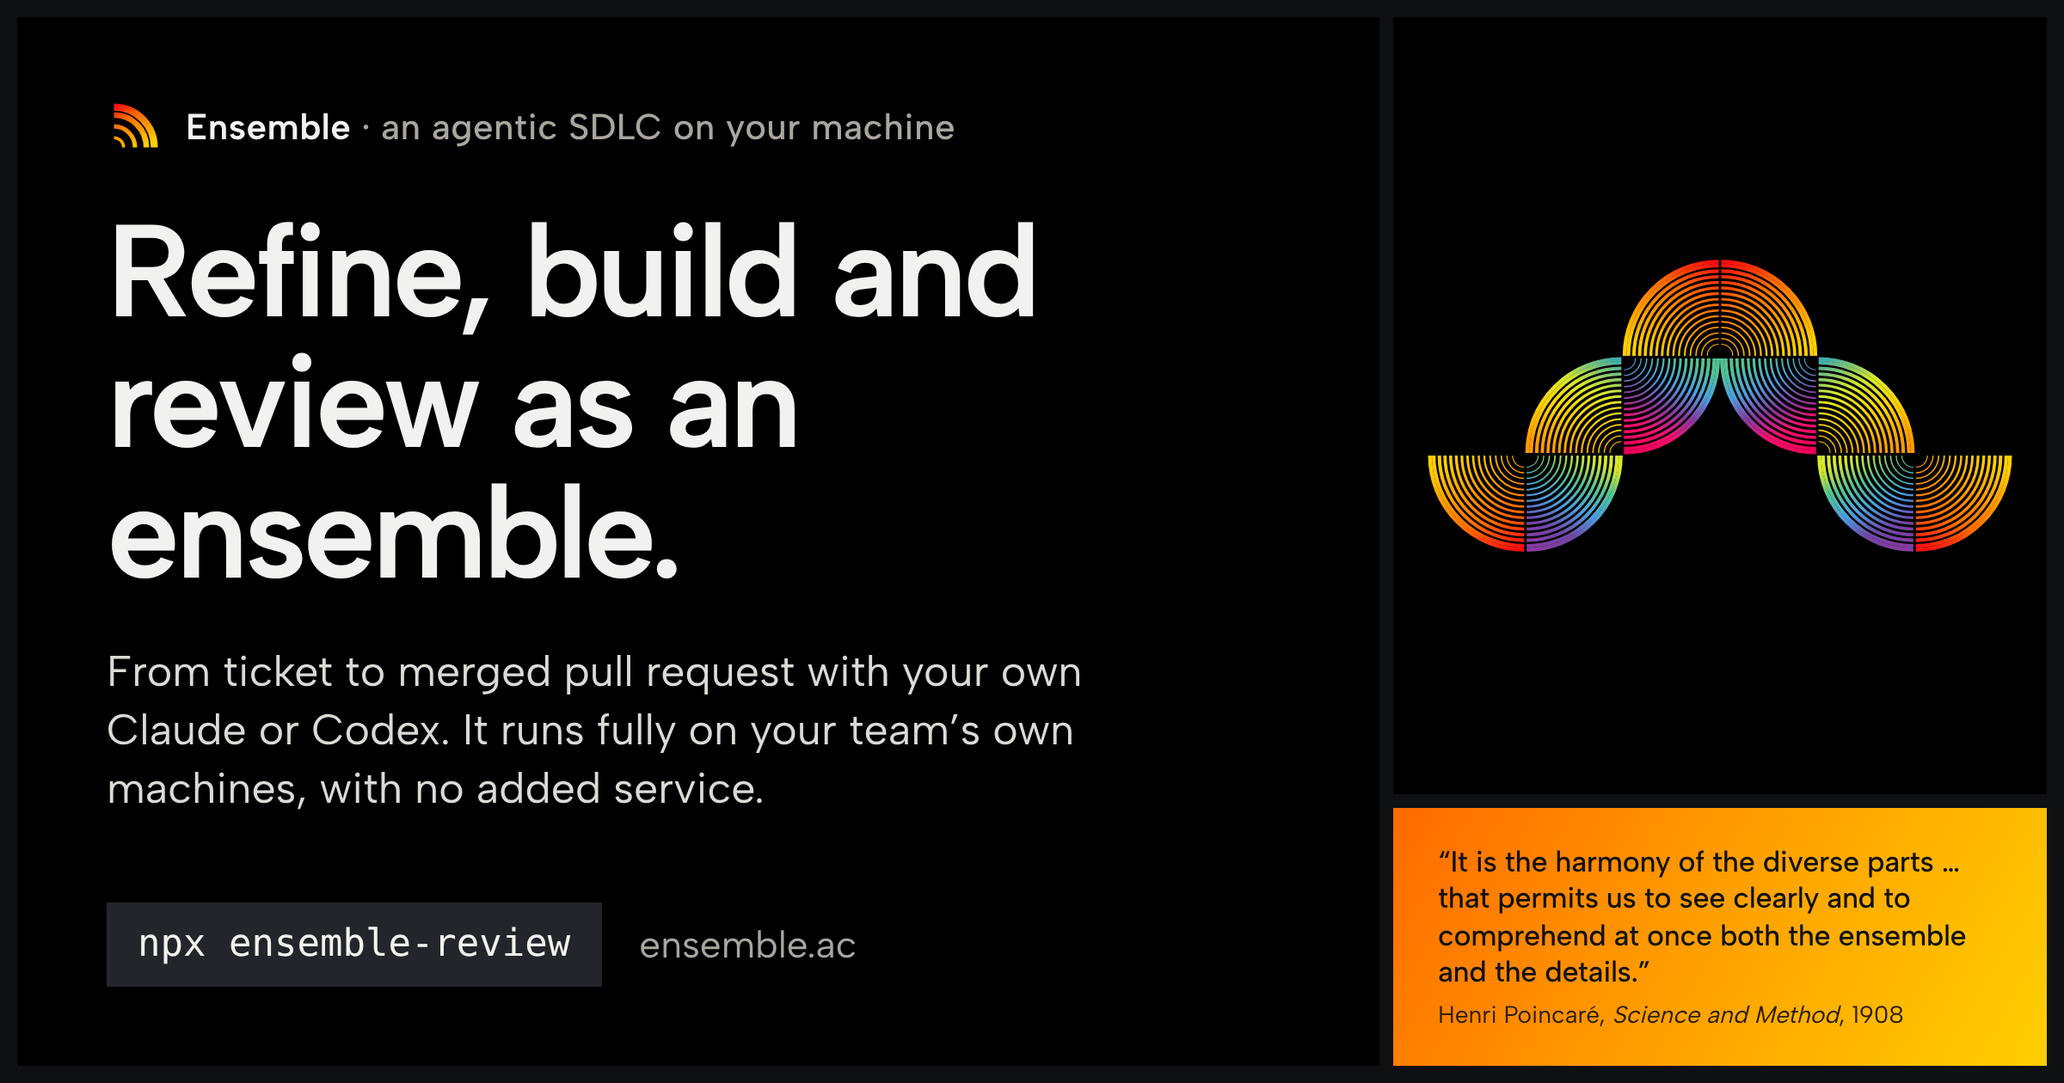
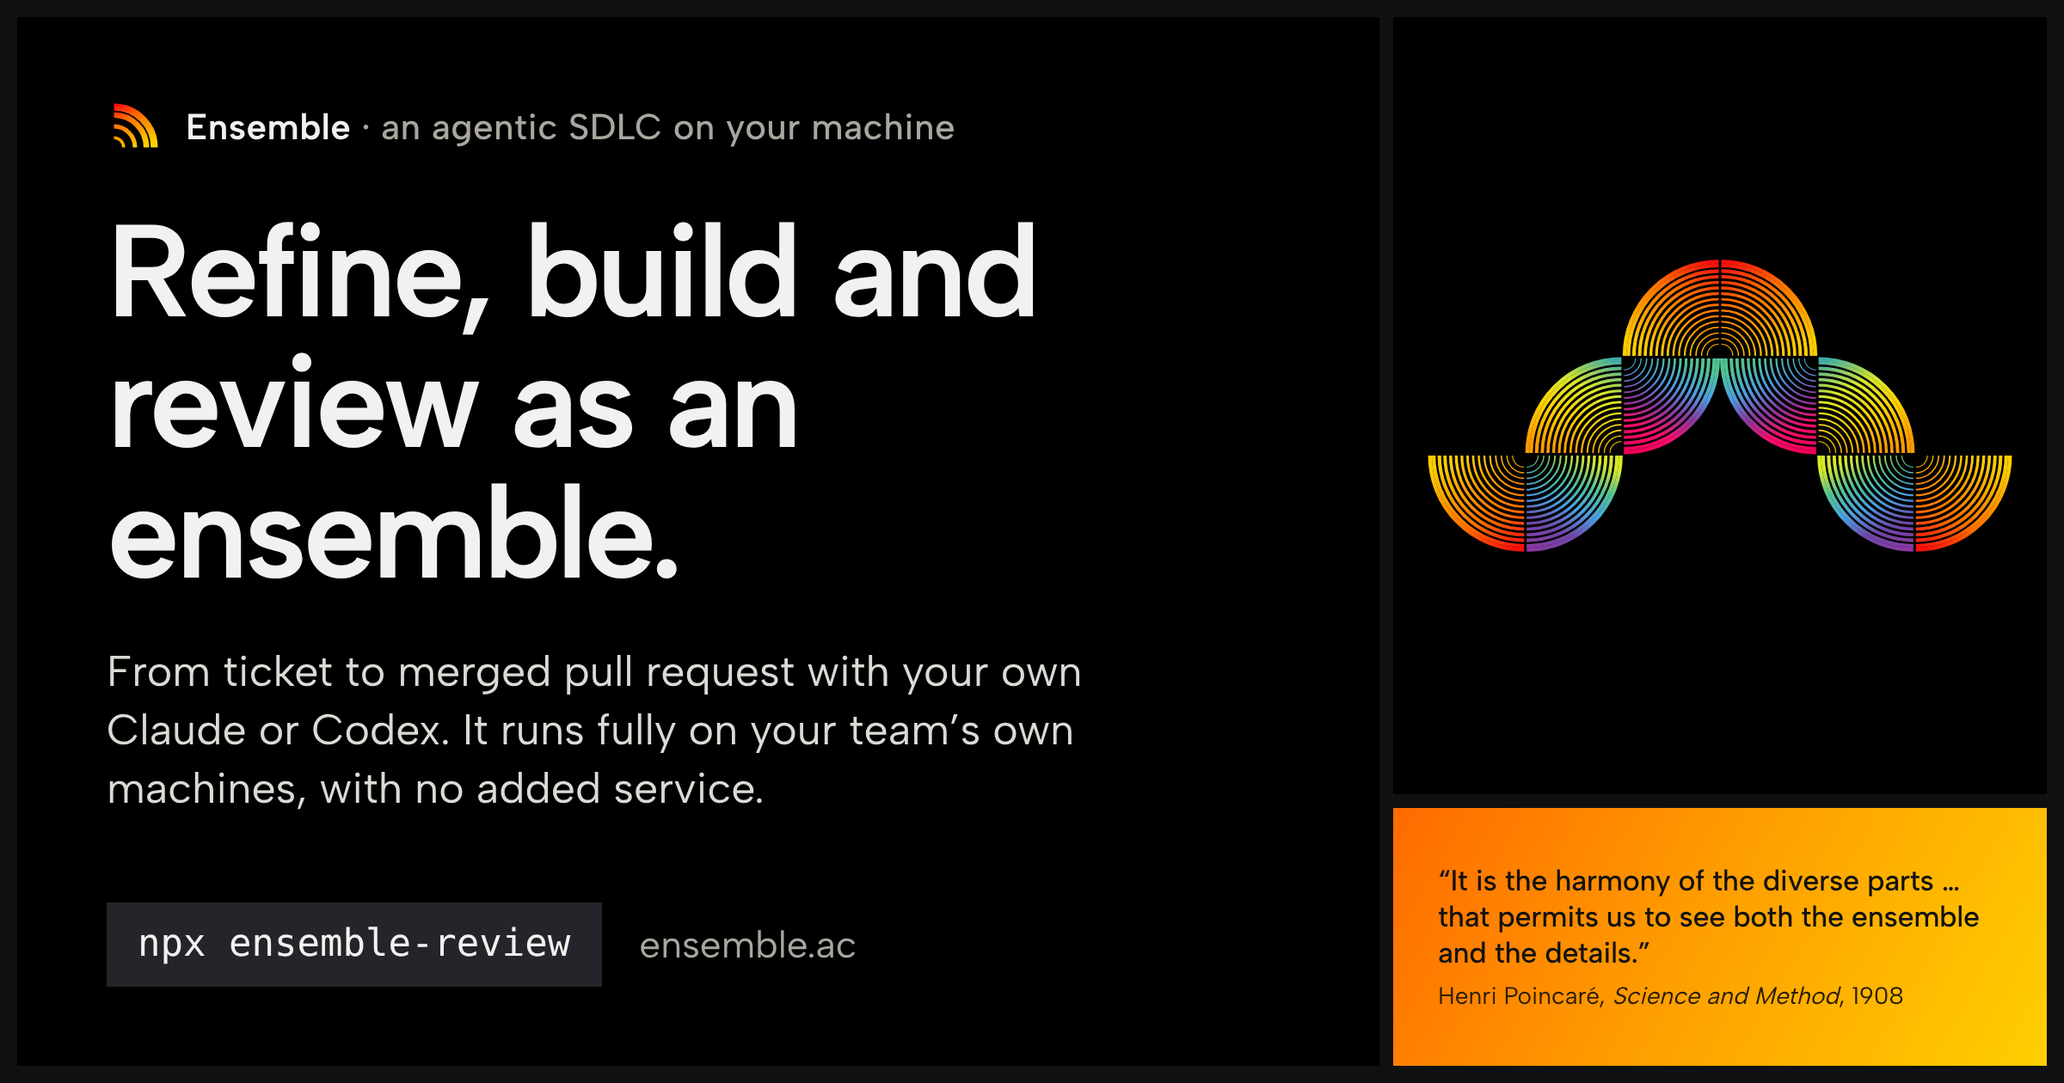
Landing: the closing picture is the hero's 8 in reverse (#29)
* Landing: the closing picture is the hero's 8 in reverse

The Quartet after "Dependency updates, handled" filled the whole width and
read too big on most screens. In its place the hero's figure of 8 is
pinned again, played backwards: it scrolls in whole, then comes apart as
the close covers it (Scene `reverse`: the same gather span with
animation-direction reverse, and the JS fallback's apart = S / gather).
It fits the screen's height, like the hero's, and is dimmed the same way.

The Quartet and quartetQuarters had no other use and are removed.

Claude-Session: https://claude.ai/code/session_01Y7zDQPGDUWXXDdJKrAgGTD

* Landing: a shorter Poincaré line in the hero and the share card

Claude-Session: https://claude.ai/code/session_01Y7zDQPGDUWXXDdJKrAgGTD

---------

Changed region(s): [[0.6875, 0.7738, 0.9688, 0.9595]]

diff --git a/apps/landing/src/components/arcs/pieces.tsx b/apps/landing/src/components/arcs/pieces.tsx
@@ -1,19 +1,16 @@
 import { Arcs } from './Arcs';
-import { eightQuarters, quartetQuarters, SITE_EIGHT } from './geometry';
+import { eightQuarters, SITE_EIGHT } from './geometry';
 import type { Corner, Quarter, RunName } from './geometry';
 
 // ---------------------------------------------------------------------------
 // The compositions. Every picture on the site is one of these, drawn from the same
 // banded quarter (geometry.ts): no photographs, no product screenshots.
 //
-//   Quartet    four equal quarters facing one centre, "four sensible people
-//              conversing", in the close at the foot of the page. Its quarters
-//              start well beyond the opposite corners, cross through the middle as
-//              it scrolls into view, and land overlapping.
-//   Chain      quarters linked end to end, each a different voice, whose bands run
-//              on from link to link (the hero's big picture). Its links start
-//              scattered across the screen and cross through each other into place as
-//              the reader scrolls down, landing as a tall figure of 8 (SITE_EIGHT).
+//   Chain      the home page's big picture, twice: quarters, each a different voice,
+//              whose links start scattered across the screen and cross through each
+//              other into place as the reader scrolls down, landing as a tall figure
+//              of 8 (SITE_EIGHT); and after "Dependency updates" the same 8 in reverse,
+//              arriving whole and coming apart (Scene `reverse`).
 //   Orchestra  the seating plan from above: rows of chairs in sections around
 //              the conductor
 //   Combo      a jazz band: four players of different weight, facing in, their
@@ -24,7 +21,7 @@ interface PieceProps {
   className?: string;
   label?: string;
   lead?: boolean;
-  /** 'slice' fills a wide stage and crops (the Quartet full width); default 'meet'. */
+  /** 'slice' fills the box and crops; default 'meet'. */
   fit?: 'meet' | 'slice';
 }
 
@@ -39,34 +36,9 @@ export function Chain({ className, label, lead }: PieceProps): JSX.Element {
       quarters={CHAIN.quarters}
       // the links cross through each other on the way in: overlaps mix like light
       blend
-      className={className}
+      className={['eight', className].filter(Boolean).join(' ')}
       label={label}
       fit="meet"
-    />
-  );
-}
-
-// R 62: the quarters overlap in the middle and land on crossing lines. They cross
-// into place like the hero's Chain, starting at TWICE the mirror distance, beyond
-// the opposite corner (the tile clips them until they fly in). The margin leaves
-// room for the corner dots.
-const QUARTET = quartetQuarters(4, 62, true, 2);
-// The STAGE quartet (Home.tsx, pinned full width): it starts just past the mirror of
-// its place (reach 1.15), so the pinned screen is never empty, and its players are
-// small, since a unit there is many pixels.
-const QUARTET_STAGE = quartetQuarters(4, 62, true, 1.15, 1.1);
-
-export function Quartet({ className, label, lead, fit = 'meet', stage }: PieceProps & { stage?: boolean }): JSX.Element {
-  const q = stage ? QUARTET_STAGE : QUARTET;
-  return (
-    <Arcs
-      lead={lead}
-      viewBox={q.viewBox}
-      className={className}
-      label={label}
-      fit={fit}
-      blend
-      quarters={q.quarters}
     />
   );
 }

diff --git a/apps/landing/src/pages/Home.tsx b/apps/landing/src/pages/Home.tsx
@@ -5,7 +5,7 @@ import { Hero } from '../components/board/Hero';
 import { BotsSection, EnsembleSection, HowItWorks } from '../components/board/HomeSections';
 import { Close } from '../components/board/Close';
 import { Scene, type SceneTiming } from '../components/arcs/Scene';
-import { Chain, Quartet } from '../components/arcs/pieces';
+import { Chain } from '../components/arcs/pieces';
 import './home.css';
 
 // ---------------------------------------------------------------------------
@@ -25,10 +25,12 @@ import './home.css';
 //            chain comes together (0 → 130) and brightens (0 → 70); "Review as an
 //            ensemble" enters at 100 + runway − 100 = 110, about 85% through, and the
 //            chain dims behind it (110 → 170).
-//   QUARTET  after "Dependency updates, handled": it plays alone (0 → 100, brightening
-//            0 → 60); the close enters at runway − 100 = 85 and the quartet dims (85 → 145).
+//   8 OUT    after "Dependency updates, handled": the hero's 8 in REVERSE (Scene
+//            `reverse`). It scrolls in whole, then comes apart (0 → 120) as it
+//            brightens (0 → 60); the close enters at runway − 100 = 85 and it dims
+//            (85 → 145).
 const CHAIN_SCENE: SceneTiming = { gather: 130, fadeIn: 70, runway: 110, outStart: 110, outEnd: 170 };
-const QUARTET_SCENE: SceneTiming = { gather: 100, fadeIn: 60, runway: 185, outStart: 85, outEnd: 145 };
+const EIGHT_OUT_SCENE: SceneTiming = { gather: 120, fadeIn: 60, runway: 185, outStart: 85, outEnd: 145 };
 
 export default function Home(): JSX.Element {
   useSeo(seoFor('/'));
@@ -45,9 +47,10 @@ export default function Home(): JSX.Element {
       <HowItWorks />
       <BotsSection />
       <Scene
-        className="scene-quartet"
-        timing={QUARTET_SCENE}
-        art={<Quartet stage fit="slice" label="Four banded quarter-circles in four colours, facing one centre" />}
+        className="scene-eight-out"
+        reverse
+        timing={EIGHT_OUT_SCENE}
+        art={<Chain label="The same figure of 8 of banded quarter-circles, coming apart" />}
         after={<Close />}
       />
     </div>

diff --git a/apps/landing/src/components/arcs/Scene.tsx b/apps/landing/src/components/arcs/Scene.tsx
@@ -2,7 +2,8 @@ import type { ReactNode } from 'react';
 
 // ---------------------------------------------------------------------------
 // A SCENE: one big arc picture PINNED to the screen while the page scrolls over it
-// (the home page's Chain under the hero, its Quartet after "Dependency updates").
+// (the home page's figure of 8 under the hero, and the same 8 in reverse after "Dependency
+// updates": it arrives assembled and comes apart).
 //
 //   section.scene                       its own scroll timeline (--scene, a view timeline)
 //     .scene-art   sticky, one screen   the picture, full width, behind everything
@@ -12,7 +13,8 @@ import type { ReactNode } from 'react';
 //                                         then `after` (the next section)
 //
 // THE TIMING, in vh of scroll after the scene's top reaches the screen's top (S):
-//   S 0 → gather     the quarters come together (arc-gather, on every layer)
+//   S 0 → gather     the quarters come together (arc-gather, on every layer); with
+//                    `reverse` they start together and come apart over the same span
 //   S 0 → fadeIn     the picture fades up from FADED_START to full
 //   outStart → outEnd it fades down to FADED_END as `after` slides over it
 // `after` enters at the screen's bottom when S = (height of `before`) + runway − 100vh,
@@ -47,12 +49,16 @@ export function Scene({
   before,
   after,
   className,
+  reverse,
 }: {
   art: ReactNode;
   timing: SceneTiming;
   before?: ReactNode;
   after: ReactNode;
   className?: string;
+  /** Play the gather backwards: the picture arrives assembled and comes APART as the page
+   *  scrolls (the home page's closing 8, the hero's in reverse). */
+  reverse?: boolean;
 }): JSX.Element {
   const t = timing;
   const vars = {
@@ -64,7 +70,7 @@ export function Scene({
   } as React.CSSProperties;
   return (
     <div
-      className={['scene', className].filter(Boolean).join(' ')}
+      className={['scene', reverse && 'scene-reverse', className].filter(Boolean).join(' ')}
       style={vars}
       data-gather={t.gather}
       data-in={t.fadeIn}

diff --git a/apps/landing/src/components/arcs/geometry.ts b/apps/landing/src/components/arcs/geometry.ts
@@ -423,42 +423,3 @@ export const SITE_EIGHT = { margin: 0.04, reach: 1.35, scatter: 0.8, spreadX: 2.
 /** The wide symmetric arch: the hero's shape before the figure of 8, and still the share
  *  image's (scripts/make-og-image.mjs), whose wide card it fills. */
 export const SITE_CHAIN = { steps: 'ABBBABBBA', first: 'v', margin: 0.04, cross: true, reach: 1.35, scatter: 0.8 } as const;
-
-/**
- * The QUARTET: four quarters centred on the corners of a 100-unit square, facing one
- * centre, each with a player's dot at its corner. With R above 50 the quarters
- * OVERLAP in the middle, so the picture lands on crossing lines (mixed like light).
- * With `cross`, each quarter starts at the mirror of its place through the middle
- * (−2u, reached at APART × dx; `reach` multiplies that distance) and travels through
- * the others to land; otherwise it
- * waits outward. `margin` (in units) is added round the square. `dot` is the players'
- * radius (smaller for a full-width stage, where a unit is many pixels).
- */
-export function quartetQuarters(
-  margin = 0,
-  R = 50,
-  cross = false,
-  reach = 1,
-  dot = 3.2,
-): { quarters: Quarter[]; viewBox: string } {
-  const away = R * 0.2;
-  const q = (cx: number, cy: number, corner: Corner, run: RunName): Quarter => {
-    const ux = (cx === 0 ? R / 2 : 100 - R / 2) - 50;
-    const uy = (cy === 0 ? R / 2 : 100 - R / 2) - 50;
-    return {
-      cx,
-      cy,
-      R,
-      corner,
-      run,
-      n: Math.round((11 * R) / 50),
-      dot,
-      dx: cross ? Math.round(((-2 * reach * ux) / 1.6) * 100) / 100 : cx === 0 ? -away : away,
-      dy: cross ? Math.round(((-2 * reach * uy) / 1.6) * 100) / 100 : cy === 0 ? -away : away,
-    };
-  };
-  return {
-    quarters: [q(0, 0, 'tl', 'ember'), q(100, 0, 'tr', 'dawn'), q(100, 100, 'br', 'dusk'), q(0, 100, 'bl', 'bloom')],
-    viewBox: `${-margin} ${-margin} ${100 + 2 * margin} ${100 + 2 * margin}`,
-  };
-}

diff --git a/apps/landing/src/components/arcs/arcMotion.ts b/apps/landing/src/components/arcs/arcMotion.ts
@@ -11,7 +11,8 @@ import { FADED_END, FADED_START } from './Scene';
 //            timeline: from its top edge reaching the viewport's bottom, through
 //            its own height, and 30% of (viewport height − its height) more.
 //   scenes   (Scene.tsx) S = vh scrolled since the scene's top reached the screen's
-//            top; apart = 1 − S / gather, and the two fades from its data-* timing.
+//            top; apart = 1 − S / gather (S / gather for a reverse scene), and the
+//            two fades from its data-* timing.
 // CSS already paints every layer apart, so nothing flashes before this runs.
 // ---------------------------------------------------------------------------
 
@@ -23,6 +24,8 @@ interface SceneTrack {
   fadeIn: HTMLElement | null;
   fadeOut: HTMLElement | null;
   t: { gather: number; fadeIn: number; outStart: number; outEnd: number };
+  /** A reverse scene comes apart: apart = S / gather. */
+  reverse: boolean;
   last: number;
 }
 
@@ -56,6 +59,7 @@ export function startArcMotion(root: HTMLElement): () => void {
       outStart: Number(el.dataset.outStart) || 100,
       outEnd: Number(el.dataset.outEnd) || 160,
     },
+    reverse: el.classList.contains('scene-reverse'),
     last: -1,
   }));
   if (tracks.length === 0 && scenes.length === 0) return () => undefined;
@@ -83,7 +87,7 @@ export function startArcMotion(root: HTMLElement): () => void {
       const S = sceneS[i] ?? 0;
       if (Math.abs(S - sc.last) < 0.05) return;
       sc.last = S;
-      const a = clamp(1 - S / sc.t.gather);
+      const a = sc.reverse ? clamp(S / sc.t.gather) : clamp(1 - S / sc.t.gather);
       const tf = a === 0 ? 'none' : `translate3d(calc(var(--ax) * ${a.toFixed(4)}), calc(var(--ay) * ${a.toFixed(4)}), 0)`;
       for (const l of sc.layers) l.style.transform = tf;
       if (sc.fadeIn) sc.fadeIn.style.opacity = (FADED_START + (1 - FADED_START) * clamp(S / sc.t.fadeIn)).toFixed(3);

diff --git a/apps/landing/src/pages/home.css b/apps/landing/src/pages/home.css
@@ -5,7 +5,7 @@
 
    CLASSES
      shared     .k (small label) · .cmd (copy button + code) · .section.chapter
-     scenes     .scene.scene-chain (Hero, then ensemble) · .scene.scene-quartet (then close): Scene.tsx
+     scenes     .scene.scene-chain (Hero, then ensemble) · .scene.scene-eight-out.scene-reverse (then close): Scene.tsx
      hero       .hero > .hero-card > .say (.kick, h1, .lead, .cmd) · figure.motto, over the pinned Chain
      flow       .board.flow > .tile.flow-stage (BuildStory: svg.bstory-svg + .story-cap) · p.flow-more
      ensemble   .board.ensemble > .tile.circle (EnsembleStory: svg.story-svg + .story-cap) · .ens-points > .tile (h3, p) · p.ens-more
@@ -16,7 +16,7 @@
      why        .board.why4 > .tile (h3, p, p.more)
      tiers      .board.tiers > .tile.gold | .tile.lapis (.k, h3, ul, .cmd)
      faq        .board.faq > .tile (h3, p)
-     close      .board.close > .tile.gold.mid (h2, .cmd) · .tile.lapis.side, over the pinned Quartet
+     close      .board.close > .tile.gold.mid (h2, .cmd) · .tile.lapis.side, over the pinned 8 coming apart
    Under 961px everything restacks to one column.
    =========================================================================== */
 

diff --git a/apps/landing/src/board.css b/apps/landing/src/board.css
@@ -392,9 +392,9 @@ body:has(.lb) {
 .lb .scene .arcs.end .arcs-box {
   left: calc((100cqw - var(--bw)) / 2); /* centred behind the page, not anchored right */
 }
-/* The hero's figure of 8, a little less bright at every stage of its fade: one still
+/* The figure of 8 (the hero's, and the closing one), a little less bright at every stage of its fade: one still
    opacity under the scene's own (they multiply), so nothing new moves on a scroll. */
-.lb .scene-chain .scene-out > .arcs {
+.lb .scene-out > .arcs.eight {
   opacity: 0.82;
 }
 .lb .scene-over {
@@ -412,6 +412,10 @@ body:has(.lb) {
       animation: arc-gather linear both;
       animation-timeline: --scene;
       animation-range: contain 0px contain var(--sc-gather);
+    }
+    /* a reverse scene: the same span, played backwards (together → apart) */
+    .lb .scene.scene-reverse .arcs .layer {
+      animation-direction: reverse;
     }
     .lb .scene-in {
       animation: scene-fade-in linear both;

diff --git a/apps/landing/src/components/board/Hero.tsx b/apps/landing/src/components/board/Hero.tsx
@@ -34,12 +34,8 @@ export function Hero(): JSX.Element {
         </div>
         <figure className="tile motto">
           <blockquote>
-            {/* ⚠ Poincaré's own words (the English translation), cut with an ellipsis and
-                never reworded: a reworded line would need "after Poincaré". */}
-            <p>
-              “It is the harmony of the diverse parts … that permits us to see clearly and to comprehend at once
-              both the ensemble and the details.”
-            </p>
+            {/* Poincaré's line (the English translation), shortened. */}
+            <p>“It is the harmony of the diverse parts … that permits us to see both the ensemble and the details.”</p>
           </blockquote>
           <figcaption>
             <a href="https://en.wikipedia.org/wiki/Henri_Poincar%C3%A9" target="_blank" rel="noreferrer noopener">

diff --git a/apps/landing/src/components/board/Close.tsx b/apps/landing/src/components/board/Close.tsx
@@ -2,8 +2,8 @@ import { Link } from '../../router';
 import { INSTALL_COMMAND } from '../../lib/site';
 import { CopyCommand } from './CopyCommand';
 
-/** The close (#run, where the header's "Run it now" lands). It scrolls over the Quartet,
- *  pinned behind it after "Dependency updates, handled" (pages/Home.tsx). */
+/** The close (#run, where the header's "Run it now" lands). It scrolls over the figure of 8
+ *  coming apart, pinned behind it after "Dependency updates, handled" (pages/Home.tsx). */
 export function Close(): JSX.Element {
   return (
     <section id="run" className="section board close" aria-labelledby="run-h">

diff --git a/apps/landing/README.md b/apps/landing/README.md
@@ -18,7 +18,7 @@ plus the three legal ones and the docs. (2026-11 restructure: `/teams` 301s to `
 
 | Route | Page | Focus |
 |---|---|---|
-| `/` | `pages/Home.tsx` | "Refine, build and review as an ensemble": the hero (the claim, Poincaré's line) and then review as an ensemble (`EnsembleStory`: the team circle tells one pull request’s life in five steps, played once in view, Replay; finished picture under reduced motion) scrolling over the pinned Chain, the build flow (`BuildStory`: Build end to end in nine steps, from the press to the updated ticket and How to test; same engine and caption card as `EnsembleStory`, `components/board/story/`), dependency updates, then the close scrolling over the pinned Quartet |
+| `/` | `pages/Home.tsx` | "Refine, build and review as an ensemble": the hero (the claim, Poincaré's line) and then review as an ensemble (`EnsembleStory`: the team circle tells one pull request’s life in five steps, played once in view, Replay; finished picture under reduced motion) scrolling over the pinned Chain, the build flow (`BuildStory`: Build end to end in nine steps, from the press to the updated ticket and How to test; same engine and caption card as `EnsembleStory`, `components/board/story/`), dependency updates, then the close scrolling over the same 8 pinned again, coming apart (Scene `reverse`) |
 | `/build` | `pages/Build.tsx` | How a ticket becomes a pull request, by hand and automatically; the story check; the Ticket design example; verifying the results |
 | `/ensemble-review` | `pages/EnsembleReview.tsx` | How each teammate's local agent joins one review with no server between them — GitHub's status lines, Claude + Codex, thread judgements, the licence above the free size |
 | `/automation` | `pages/Automation.tsx` | Everything the dependency automation does, and how it claims each pull request once per team |
@@ -41,11 +41,12 @@ cookie banner and the lightbox. The home page's sections are `components/board/*
 
 **EVERY OTHER PICTURE IS DRAWN IN CODE** from one motif, the banded quarter-circle
 (`components/arcs/`: `geometry.ts` holds the measured band geometry, the spectrum and the runs;
-`Arcs.tsx` draws a composition; `pieces.tsx` holds the Chain, Quartet, Orchestra and Combo;
+`Arcs.tsx` draws a composition; `pieces.tsx` holds the Chain (the figure of 8), Orchestra and Combo;
 each quarter a layer moved on the compositor by CSS scroll-driven animations as the reader scrolls down,
 `arcMotion.ts` the fallback where those are unsupported, off under reduced motion). On the home page the
-Chain and the Quartet are SCENES (`Scene.tsx`): pinned full width for one screen while the page scrolls
-over them, coming together and fading up, then dimming as the next section covers them. No photographs. The header's mark (`public/mark.svg`), every favicon and app icon and
+8 is two SCENES (`Scene.tsx`): pinned full width for one screen while the page scrolls over it, coming
+together and fading up under the hero, and after "Dependency updates" coming apart (`reverse`), each dimming
+as the next section covers it. No photographs. The header's mark (`public/mark.svg`), every favicon and app icon and
 `public/og-image.png` are generated (`node scripts/make-favicons.mjs`, `node scripts/make-og-image.mjs`):
 the mark from `packages/shared/src/brand-mark.ts`, the one definition the app's Wordmark also draws. The voice tiles carry a quarter in their corner
 (`assets/arcs/corner.svg`, the same geometry). When one comes fully into view (once per page view) a ripple runs through
